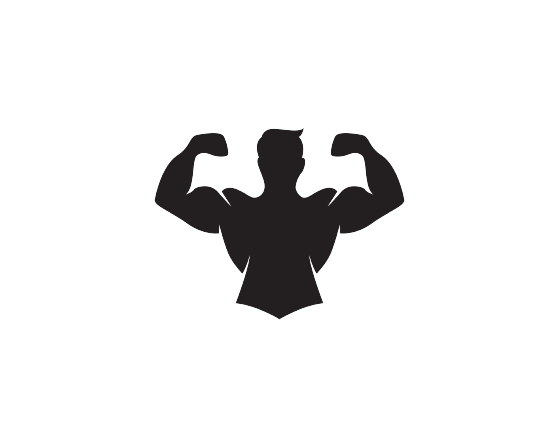
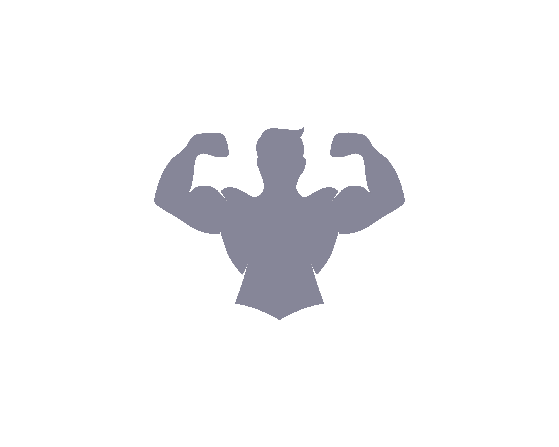
mudança no tema e icones

Changed region(s): [[0.2737, 0.2908, 0.7299, 0.7271]]

diff --git a/lib/views/main_page.dart b/lib/views/main_page.dart
@@ -4,19 +4,19 @@ import 'package:gym_app/views/new.dart';
 
 import '../components/default_app_bar.dart';
 
-class HomePage extends StatefulWidget {
-  const HomePage({super.key});
+class MainPage extends StatefulWidget {
+  const MainPage({super.key});
 
   @override
-  State<HomePage> createState() => _HomePageState();
+  State<MainPage> createState() => _MainPageState();
 }
 
-class _HomePageState extends State<HomePage> {
+class _MainPageState extends State<MainPage> {
   int _index = 0;
   final List<Widget> _telas = [
-    New("Minha conta"),
-    New("Meus Treinos"),
-    New("Meus pedidos"),
+    const New("Minha conta"),
+    const New("Meus Treinos"),
+    const New("Meus pedidos"),
   ];
   @override
   Widget build(BuildContext context) {
@@ -24,7 +24,7 @@ class _HomePageState extends State<HomePage> {
       appBar: defaultAppBar(),
       body: _telas[_index],
       bottomNavigationBar: BottomNavigationBar(
-        backgroundColor: bgColor,
+        backgroundColor: kSecondaryColor,
         currentIndex: _index,
         onTap: toggleClick,
         showSelectedLabels: false,

diff --git a/lib/main.dart b/lib/main.dart
@@ -1,7 +1,7 @@
 import 'package:flutter/material.dart';
 import 'package:flutter/services.dart';
 import 'package:gym_app/constants/colors.dart';
-import 'views/home_page.dart';
+import 'views/main_page.dart';
 
 void main() {
   runApp(const MyApp());
@@ -13,12 +13,13 @@ class MyApp extends StatelessWidget {
   @override
   Widget build(BuildContext context) {
     SystemChrome.setSystemUIOverlayStyle(const SystemUiOverlayStyle(
-      systemNavigationBarColor: bgColor,
+      systemNavigationBarColor: kSecondaryColor,
       statusBarColor: Colors.transparent,
     ));
     return MaterialApp(
+      color: kPrimaryColor,
       debugShowCheckedModeBanner: false,
-      home: const HomePage(),
+      home: const MainPage(),
       theme: ThemeData(
         fontFamily: 'Poppins2',
       ),

diff --git a/lib/views/new.dart b/lib/views/new.dart
@@ -1,6 +1,5 @@
 import 'package:flutter/material.dart';
-import 'package:flutter/src/widgets/container.dart';
-import 'package:flutter/src/widgets/framework.dart';
+import 'package:gym_app/constants/colors.dart';
 
 class New extends StatelessWidget {
   const New(this.title, {super.key});
@@ -10,6 +9,7 @@ class New extends StatelessWidget {
   @override
   Widget build(BuildContext context) {
     return Scaffold(
+      backgroundColor: kPrimaryColor,
       body: Text(title),
     );
   }

diff --git a/lib/components/default_app_bar.dart b/lib/components/default_app_bar.dart
@@ -1,14 +1,13 @@
 import 'package:flutter/material.dart';
-
-import '../constants/colors.dart';
+import 'package:gym_app/constants/colors.dart';
 
 AppBar defaultAppBar() {
   return AppBar(
-    backgroundColor: bgColor,
-    elevation: 0.5,
+    backgroundColor: kPrimaryColor,
+    elevation: 0,
     title: Image.asset(
       'assets/images/gym_icon.png',
-      scale: 5,
+      scale: 6,
     ),
     centerTitle: true,
   );

diff --git a/lib/constants/colors.dart b/lib/constants/colors.dart
@@ -1,4 +1,5 @@
 import 'package:flutter/material.dart';
 
-const kWhite = Color(0xFFE2E2E2);
-const bgColor = Color(0xFFFCFCFC);
+const kPrimaryColor = Color(0xFF191922);
+const kSecondaryColor = Color(0xFF222230);
+const kAccentColor = Color(0xFFF3305A);
